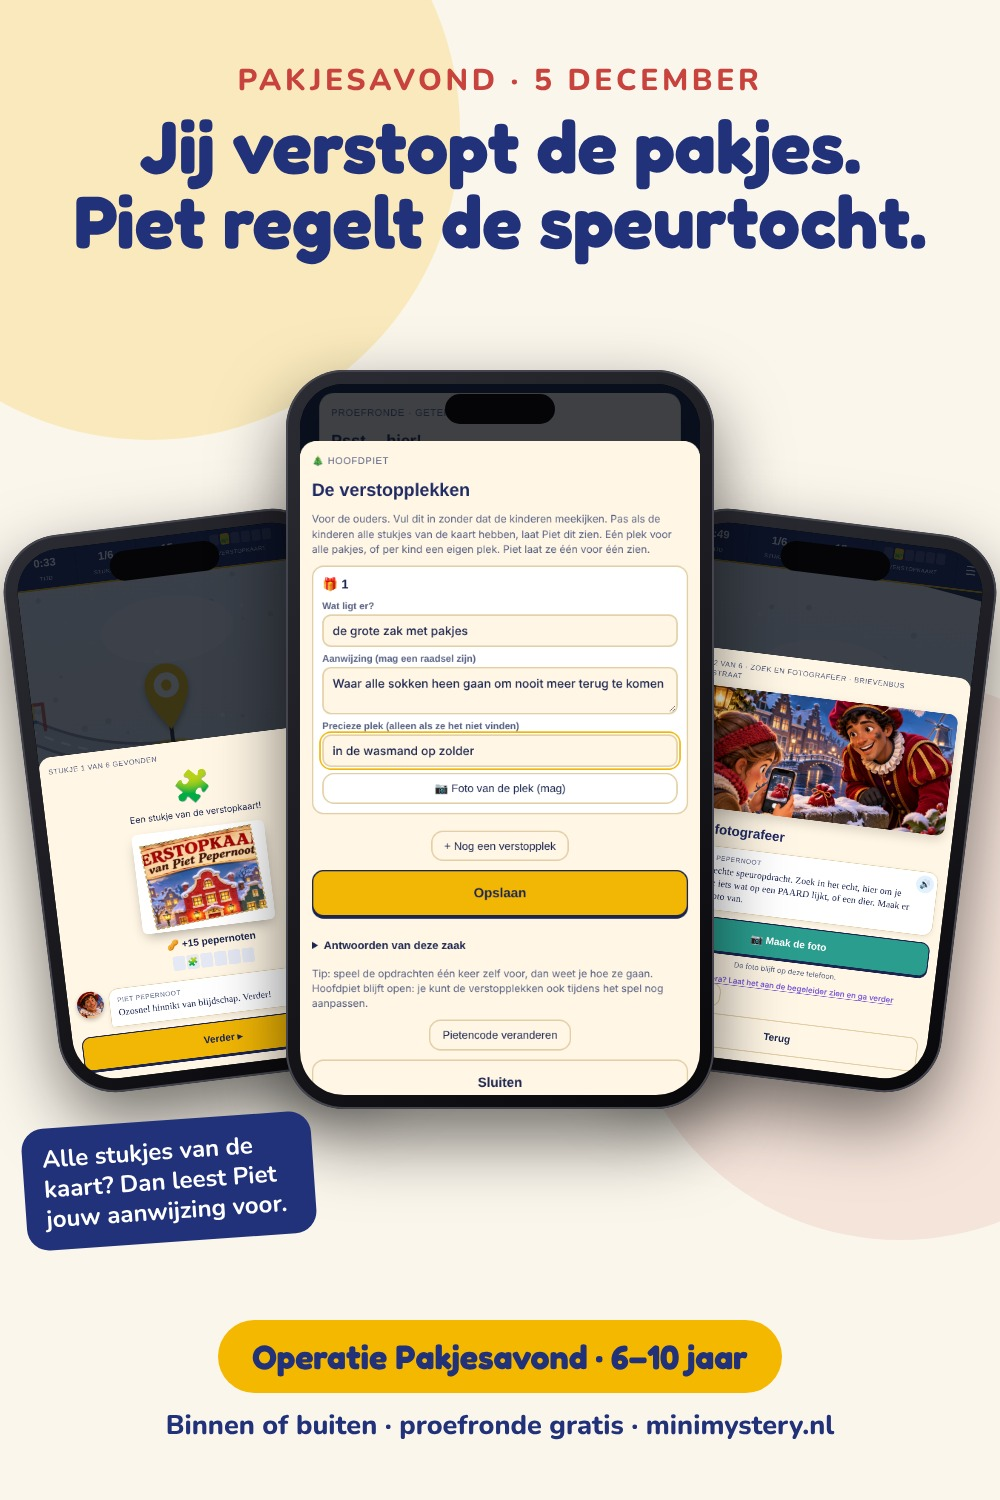
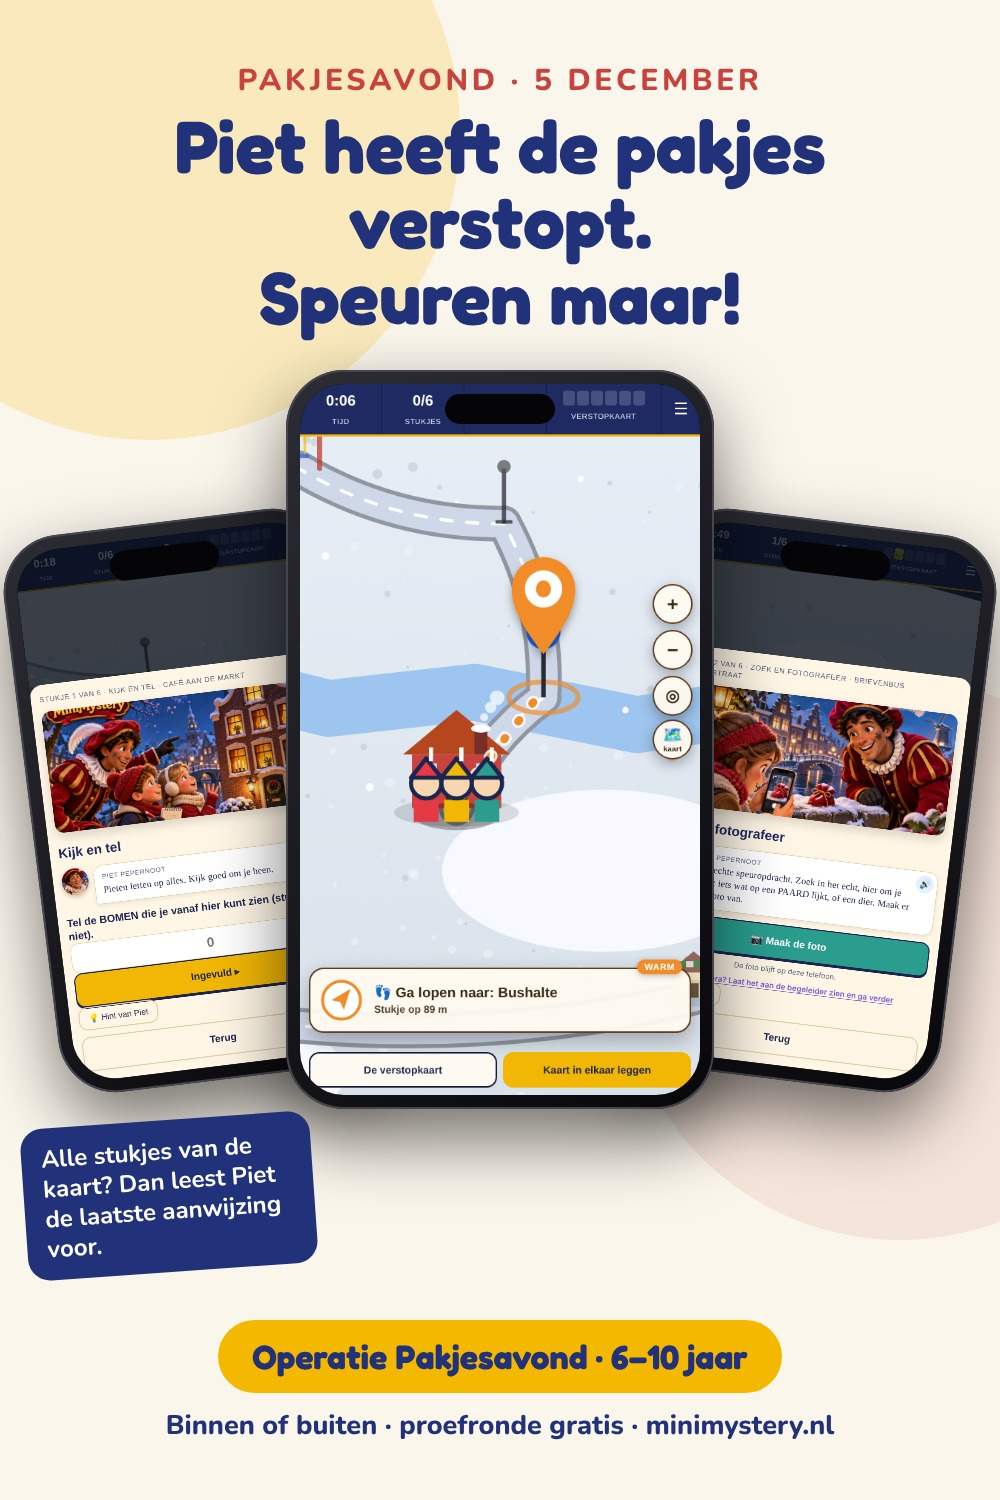
Pin Hoofdpiet: zonder verstopplek-scherm en zonder 'jij verstopt' (geen Sint-spoiler voor kinderen)
Claude-Session: https://claude.ai/code/session_01PXyrFot2FCUgbbqohm1Wbh

Changed region(s): [[0.031, 0.2453, 0.713, 0.736], [0.062, 0.0613, 0.93, 0.2453], [0.031, 0.7667, 0.341, 0.8587]]

diff --git a/pin/hoofdpiet.html b/pin/hoofdpiet.html
@@ -1,7 +1,7 @@
 <!doctype html>
 <html lang="nl"><head><meta charset="utf-8">
 <meta name="viewport" content="width=device-width,initial-scale=1">
-<title>Operatie Pakjesavond: jij verstopt, Piet regelt de speurtocht | MiniMystery</title>
+<title>Operatie Pakjesavond: Piet heeft de pakjes verstopt | MiniMystery</title>
 <meta name="robots" content="noindex,follow">
 <link rel="canonical" href="https://www.minimystery.nl/operatie-pakjesavond.html">
 <meta property="og:image" content="https://www.minimystery.nl/assets/pins/pin-hoofdpiet.jpg">
